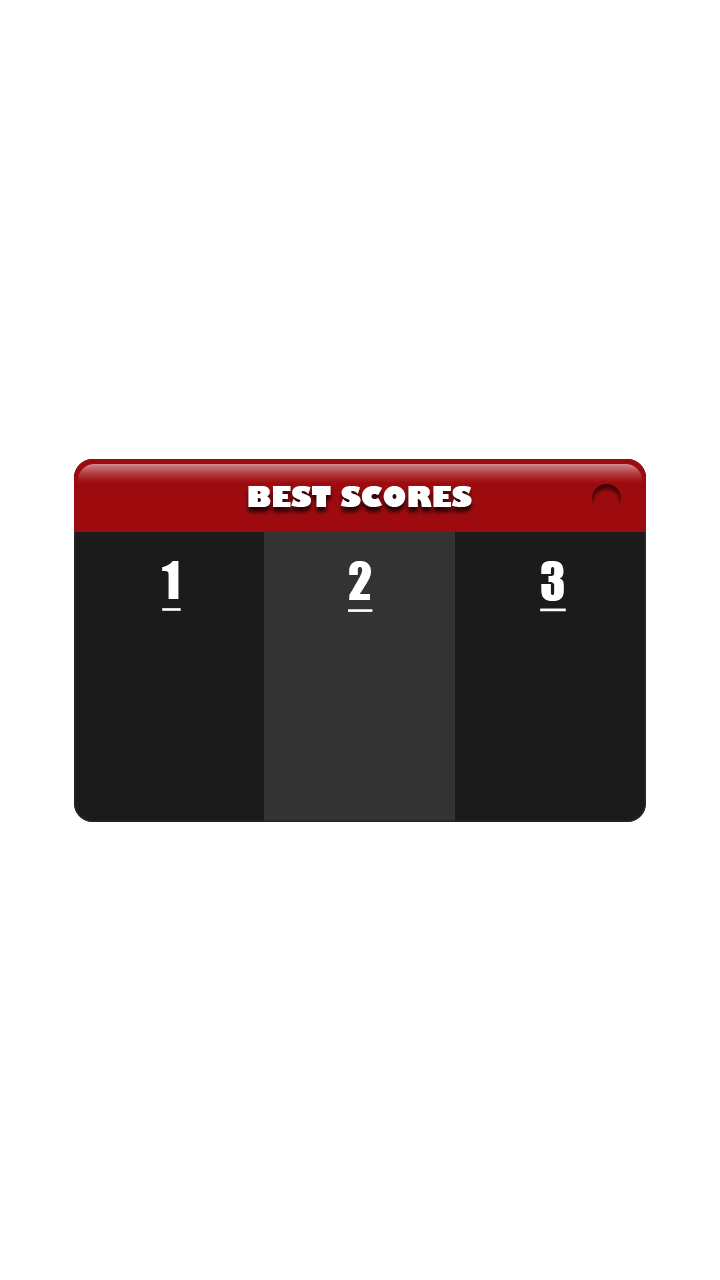
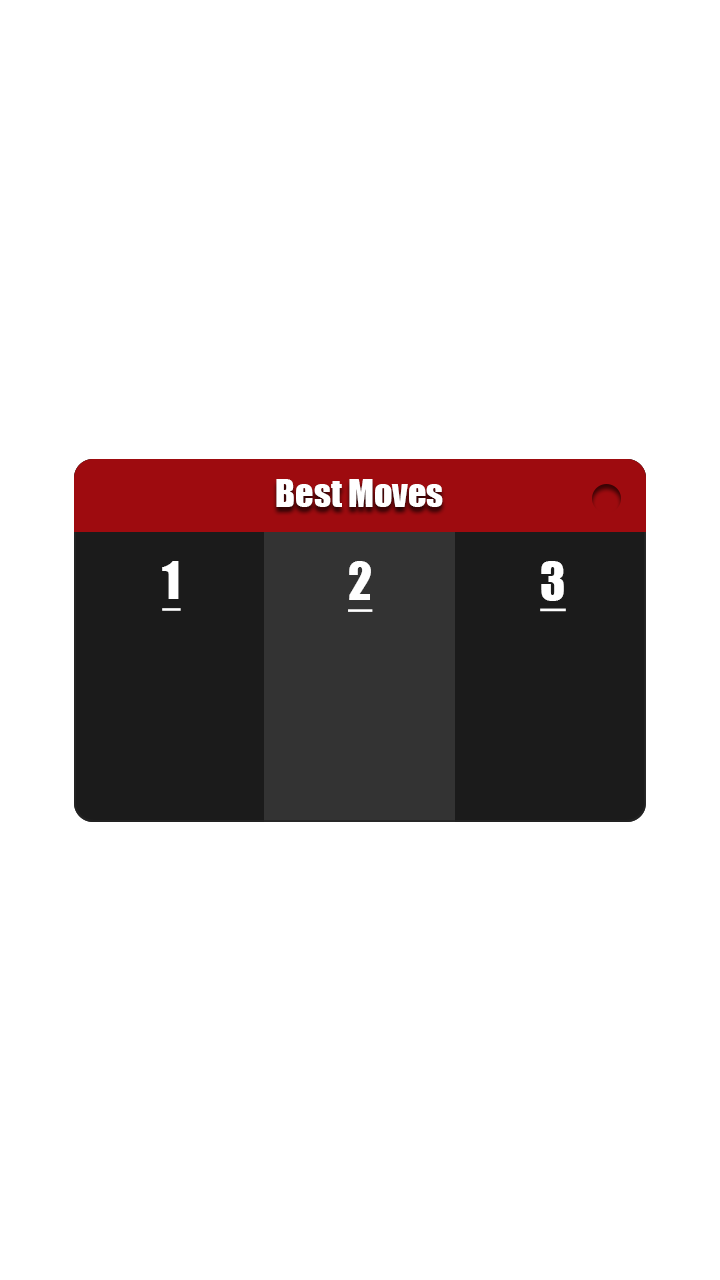
Change in Tiles

Changed region(s): [[0.1222, 0.3438, 0.8861, 0.4062]]

diff --git a/client/assets/js/main.js b/client/assets/js/main.js
@@ -330,18 +330,18 @@ window.onload = function () {
             var panel = this.add.image (_gW/2, _gH/2, 'panel').setScale (_gW/720);
 
             var configlvlTxt = {
-                color : '#dedede',
+                color : '#fff',
                 fontFamily : 'Coda',
                 fontSize : Math.floor ( 35 * _gH/1280)
             }
 
             this.lvlText = this.add.text ( _gW * 0.12, _gH * 0.103 , 'Level : 1', configlvlTxt ).setOrigin (0,0.5);
             
-            this.lvlText.setShadow  ( 0, 2, '#3a3a3a', 3, false, true );
+            this.lvlText.setShadow  ( 0, 2, '#000', 3, false, true );
 
             this.movText = this.add.text ( _gW * 0.88, _gH * 0.103 , 'Moves : 0', configlvlTxt ).setOrigin (1,0.5);
 
-            this.movText.setShadow  ( 0, 2, '#3a3a3a', 3, false, true );
+            this.movText.setShadow  ( 0, 2, '#000', 3, false, true );
 
            
             var best_btn = this.add.image (_gW/2, _gH * 0.9, 'best_btn').setScale (_gW/720).setInteractive();
@@ -358,6 +358,9 @@ window.onload = function () {
                 _this.showBestScores();
             });
 
+            var txt = this.add.text ( _gW/2, _gH * 0.9, 'Show Best Moves', {fontSize:30*_gW/720, fontFamily:'Coda', color:'#fff'}).setOrigin(0.5);
+            
+            txt.setShadow  ( 0, 2, '#000', 3, false, true );
 
             var homebtn = this.add.image (_gW * 0.05, _gH * 0.02, 'home_btn').setScale (_gW/720).setOrigin(0).setInteractive();
 
